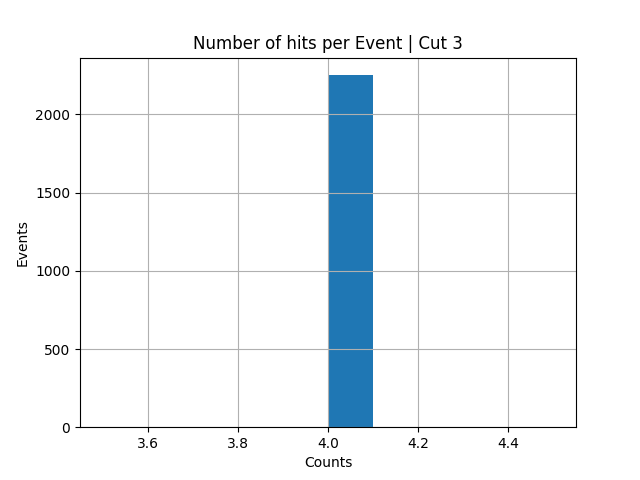
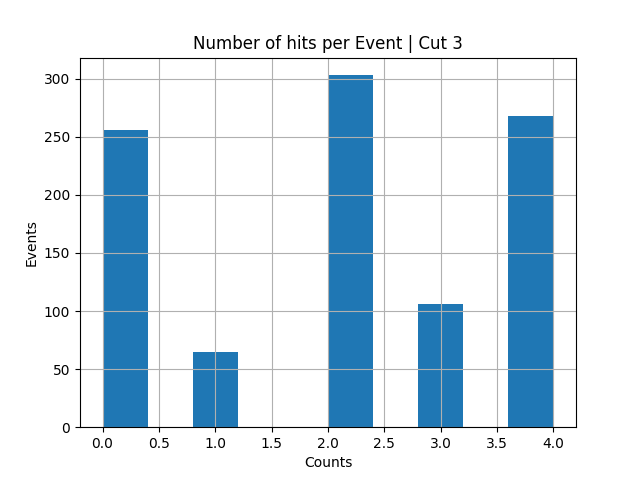
working analysis plotter code (before OOP attempt)

diff --git a/CrateAnalysis/crateAnalysisPlotter.py b/CrateAnalysis/crateAnalysisPlotter.py
@@ -6,12 +6,14 @@ Program : CrateAnalysis/crateAnalysisPlotter.py
 Summary:
 
 To DO:
+    - make Object Oriented
+    - Stats display on histo
+    - count number of events with multiple TDC
     - incorporate TDC array into the DataFrame
+        - make sure TDC histo is correct
     - implement Igor 2D histo
-    - arbitrary cutting of histo
     - methods for data filtering
     - Bell curve fit of histo
-    - Stats display on histo
     - Recreate of all graphs
     - Plots of arrays (Optional)
     - GUI interface?
@@ -29,10 +31,64 @@ from pandas.plotting import andrews_curves
 import sys
 
 
-def getHistogram(df, queryName, nbins=100):
+def getStats(df, queryName):
+    s = df[queryName]
+    print(s.describe())
+
+
+def removeOutliers(df, queryName):
+    q_low = df[queryName].quantile(0.01)
+    q_hi = df[queryName].quantile(0.99)
+    df_filtered = df[(df[queryName] < q_hi) & (df[queryName] > q_low)]
+    return df_filtered
+
+
+def scrubbedDataFrame(df, queryName, numStd):
+    s = df[queryName]
+    s_mean = s.mean()
+    s_std = s.std()
+    v_low = s.mean() - numStd * s_std
+    v_hi = s.mean() + numStd * s_std
+    df_filtered = df[(df[queryName] < v_hi) & (df[queryName] > v_low)]
+    return df_filtered
+
+
+def getTrimmedHistogram(df, queryName, numStd, nbins=100):
+    df_filtered = scrubbedDataFrame(df, queryName, numStd)
+    getHistogram(df_filtered,
+                 queryName,
+                 nbins,
+                 title="(Events within {} std dev)".format(numStd))
+
+
+def getTrimmed2DHistogram(df, queryName, numStd, nbins=100):
+    pass
+
+
+def getTrimmedFilteredHistogram(df, queryName, numStd, nbins=100):
+    df_filtered = scrubbedDataFrame(df, queryName, numStd)
+    getFilteredHistogram(df_filtered,
+                         queryName,
+                         nbins,
+                         title="(Events within {} std dev)".format(numStd))
+
+
+def getTrimmedComparableHistogram(df, queries, numStd, nbins=100):
+    s = pd.DataFrame(columns=queries)
+    s = s.fillna(0)  # with 0s rather than NaNs
+    for query in queries:
+        print(scrubbedDataFrame(df, query, numStd))
+        s[query] = scrubbedDataFrame(df, query, numStd)[query]
+    ax = s.plot.hist(alpha=0.7, bins=nbins)
+    plt.title("Histogram of {} (Events within {} std dev)".format(
+        str(queries), numStd))
+    plt.show()
+
+
+def getHistogram(df, queryName, nbins=100, title=""):
     s = df[queryName]
     ax = s.plot.hist(alpha=0.7, bins=nbins)
-    ax.set_title("Histogram of {}".format(queryName))
+    ax.set_title("Histogram of {} {}".format(queryName, title))
     plt.show()
     # df.hist(column=queryName, bins=nbins)
     # plt.ylabel("Frequency")
@@ -47,24 +103,25 @@ def getKDE(df, queryName, nbins=100):
     plt.show()
 
 
-def getFilteredHistogram(df, queryName, filter, nbins=100):
+def getFilteredHistogram(df, queryName, filter, nbins=100, title=""):
     df.hist(column=queryName, bins=nbins, by=filter)
-    plt.suptitle("Histograms of {} grouped by {}".format(queryName, filter))
+    plt.suptitle("Histograms of {} grouped by {} {}".format(
+        queryName, filter, title))
     plt.ylabel("Frequency")
     plt.show()
 
 
-def getComparableHistogram(df, queries, nbins=100):
+def getComparableHistogram(df, queries, nbins=100, title=""):
     s = pd.DataFrame(columns=queries)
     s = s.fillna(0)  # with 0s rather than NaNs
     for query in queries:
         s[query] = df[query]
     ax = s.plot.hist(alpha=0.7, bins=nbins)
-    plt.title("Histogram of {}".format(str(queries)))
+    plt.title("Histogram of {} {}".format(str(queries), title))
     plt.show()
 
 
-def get2DHistogram(df, queries, nbibs=1000):
+def get2DHistogram(df, queries, nbibs=1000, title=""):
     x = df[queries[0]].to_numpy()
     y = df[queries[1]].to_numpy()
     x = dropna(x)
@@ -75,7 +132,8 @@ def get2DHistogram(df, queries, nbibs=1000):
         else:
             y = y[:-1]
     plt.hist2d(x, y)
-    plt.title("2D Histogram of {} against {}".format(queries[0], queries[1]))
+    plt.title("2D Histogram of {} against {} {}".format(
+        queries[0], queries[1], title))
     plt.show()
 
 
@@ -87,28 +145,38 @@ def dropna(arr, *args, **kwarg):
     return dropped
 
 
-def getPlot(df, query):
+def getPlot(df, query, title=""):
     df[query].plot()
     plt.xlabel("Event Number")
     plt.ylabel(str(query))
-    plt.title("Plot of {} event series".format(query))
+    plt.title("Plot of {} event series {}".format(query, title))
     plt.show()
 
 
-def getScatterPlot(df, queries):
+def getScatterPlot(df, queries, title=""):
     plt.scatter(df[queries[0]].values, df[queries[1]].values)
     plt.xlabel(str(queries[0]))
     plt.ylabel(str(queries[1]))
-    plt.title("Scatter Plot of {} against {}".format(queries[0], queries[1]))
+    plt.title("Scatter Plot of {} against {} {}".format(
+        queries[0], queries[1], title))
     plt.show()
 
 
-def get3DScatterPlot(df, queries):
+def get3DScatterPlot(df, queries, title=""):
     df.plot.scatter(x=queries[0],
                     y=queries[1],
                     c=queries[2],
                     colormap='viridis')
+    plt.title(title)
     plt.show()
+
+
+def getEventInfo(df, eventNum):
+    if isinstance(eventNum, int):
+        print(df.loc[df["event_num"] == eventNum])
+    elif isinstance(eventNum, list):
+        df = df[df['event_num'].between(eventNum[0], eventNum[1])]
+        print(df)
 
 
 """
@@ -125,9 +193,13 @@ if __name__ == "__main__":
         print("No File passed / Invalid File")
         # ifile = "processed_data/events_data_frame_510.ftr"  # needs change later
     events_df = pd.read_feather(ifile, use_threads=True)
-    get3DScatterPlot(events_df, ["L1_asym", "L2_asym", "L1_TDC_sum"])
-    get3DScatterPlot(events_df, ["L1_asym", "L2_asym", "TDC_L1_L"])
-    get3DScatterPlot(events_df, ["L1_asym", "L2_asym", "TDC_L1_R"])
+    # getComparableHistogram(events_df, ["L1_TDC_sum", "L2_TDC_sum"])
+    getTrimmedComparableHistogram(events_df, ["L1_TDC_sum", "L2_TDC_sum"], 3)
+
+    # getEventInfo(events_df, [10, 15])
+    # get3DScatterPlot(events_df, ["L1_asym", "L2_asym", "L1_TDC_sum"])
+    # get3DScatterPlot(events_df, ["L1_asym", "L2_asym", "TDC_L1_L"])
+    # get3DScatterPlot(events_df, ["L1_asym", "L2_asym", "TDC_L1_R"])
     # get3DScatterPlot(events_df, ["L1_asym", "L2_asym", "L2_TDC_sum"])
     # get3DScatterPlot(events_df, ["L1_asym", "L2_asym", "deadtime"])
     # getScatterPlot(events_df, ["L1_asym", "L2_asym"])
@@ -136,6 +208,7 @@ if __name__ == "__main__":
     # getComparableHistogram(events_df, ["L1_TDC_sum", "L2_TDC_sum"])
     # getKDE(events_df, "L1_TDC_sum")
     # getHistogram(events_df, "L1_TDC_sum")
+    # getTrimmedHistogram(events_df, "L1_TDC_sum", 3)
     # getFilteredHistogram(events_df, "L1_asym", "numChannelsRead")
     # getFilteredHistogram(events_df, "L1_TDC_sum", "numChannelsRead")
     # get2DHistogram(events_df, ["L1_asym", "L2_asym"])

diff --git a/CrateAnalysis/TDCUnpacker.py b/CrateAnalysis/TDCUnpacker.py
@@ -33,6 +33,6 @@ class TDCUnpacker(DummyModule):
                     tdcData[(slot, datum.channel)] = datum.tdc
         eventRecord["unpacked3377Data"] = tdcData
         eventRecord["len_unpacked_3377Data"] = len(tdcData)
+        # print("eventRecord : {}".format(eventRecord))
 
-    #  print("eventRecord : {}".format(eventRecord))
     #  print("eventNumber : {}".format(eventNumber))

diff --git a/CrateAnalysis/myAnalysisExample.py b/CrateAnalysis/myAnalysisExample.py
@@ -217,8 +217,8 @@ def main(argv):
     # dt = datetime.now() - t0
     # print('Processed %d events in %g sec' % (n, dt.total_seconds()))
 
-    processWithCuts(modules1, modules2, inputFiles)
-    # processDefault(modules_og, inputFiles)
+    # processWithCuts(modules1, modules2, inputFiles)
+    processDefault(modules_og, inputFiles)
     return 0
 
 

diff --git a/CrateAnalysis/LC3377Definition.py b/CrateAnalysis/LC3377Definition.py
@@ -19,6 +19,7 @@ class LC3377Definition:
     def __call__(self, eventRecord):
         fifoData = eventRecord[(self.slot, "LeCroy3377")]
         unpacked = LC3377Readout(fifoData)
+        # print(unpacked)
 
         nevent = len(unpacked.events)
         if nevent == 0:
